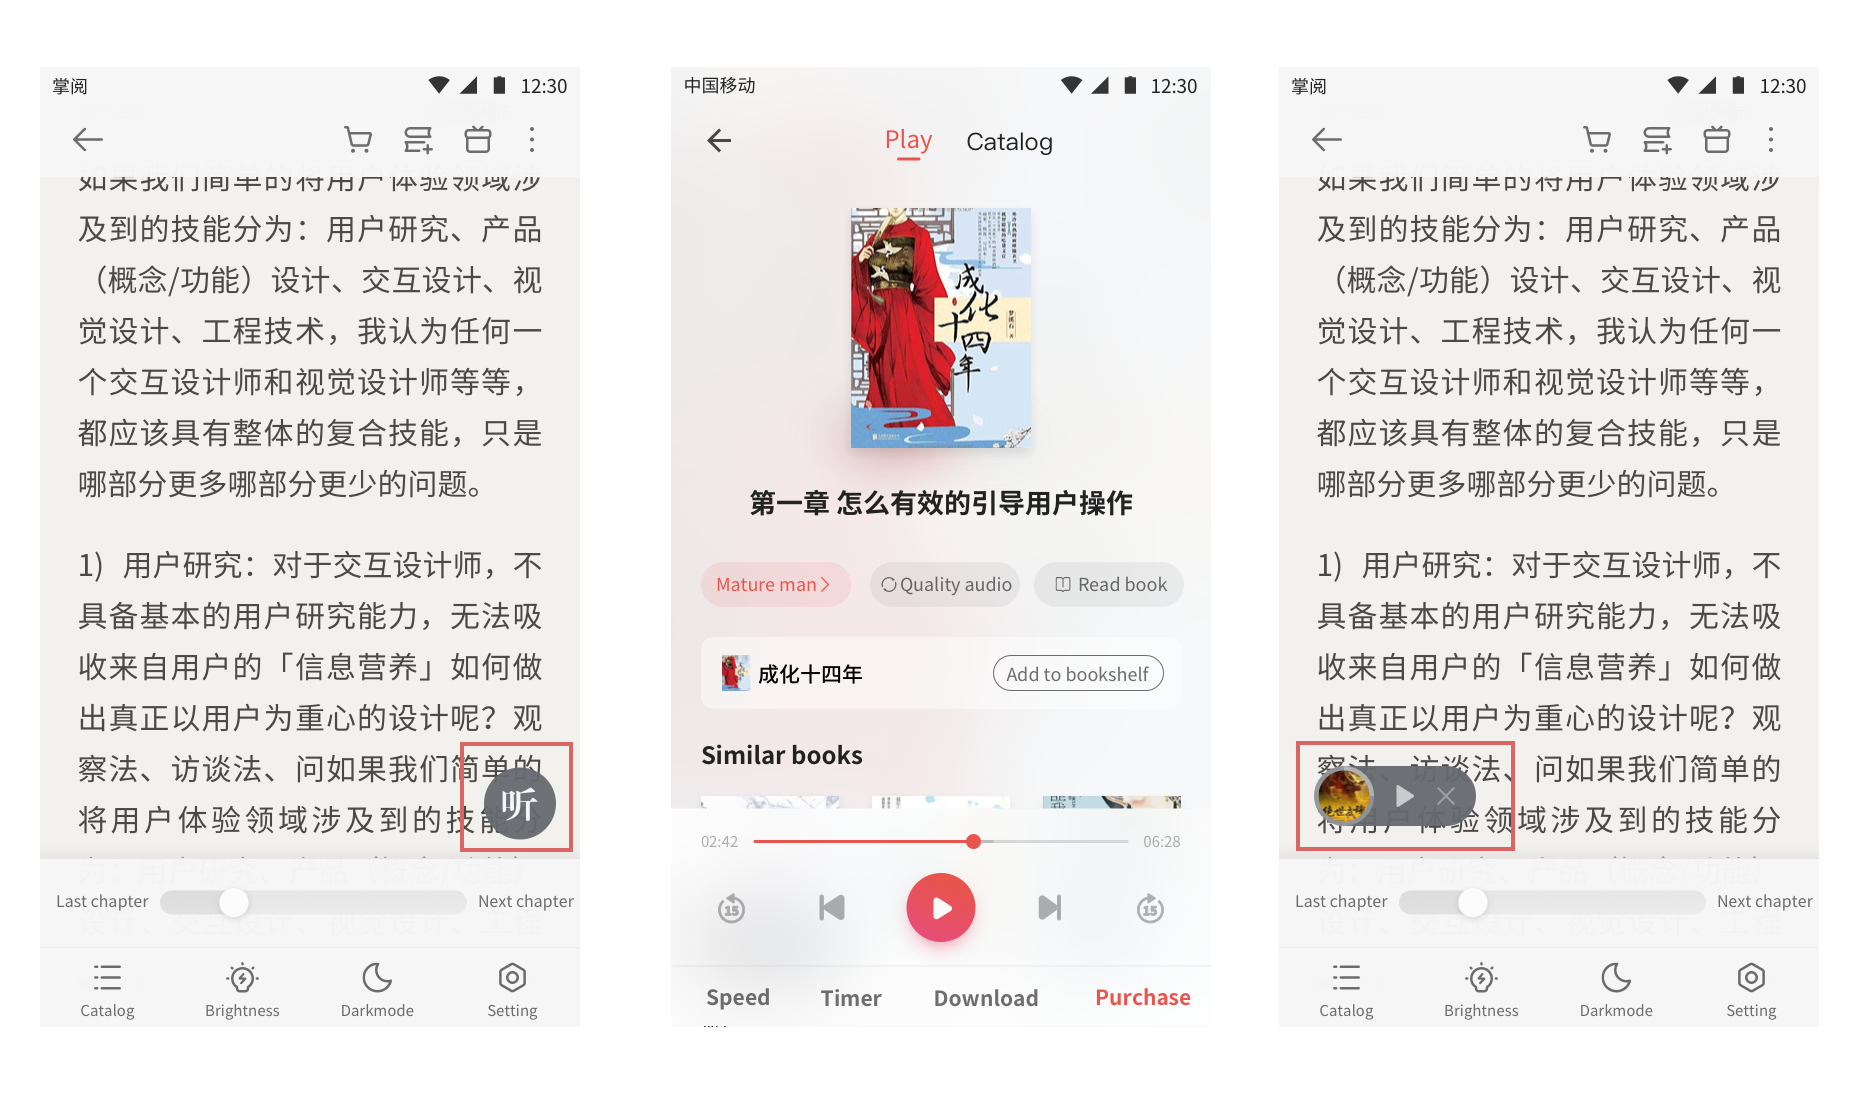
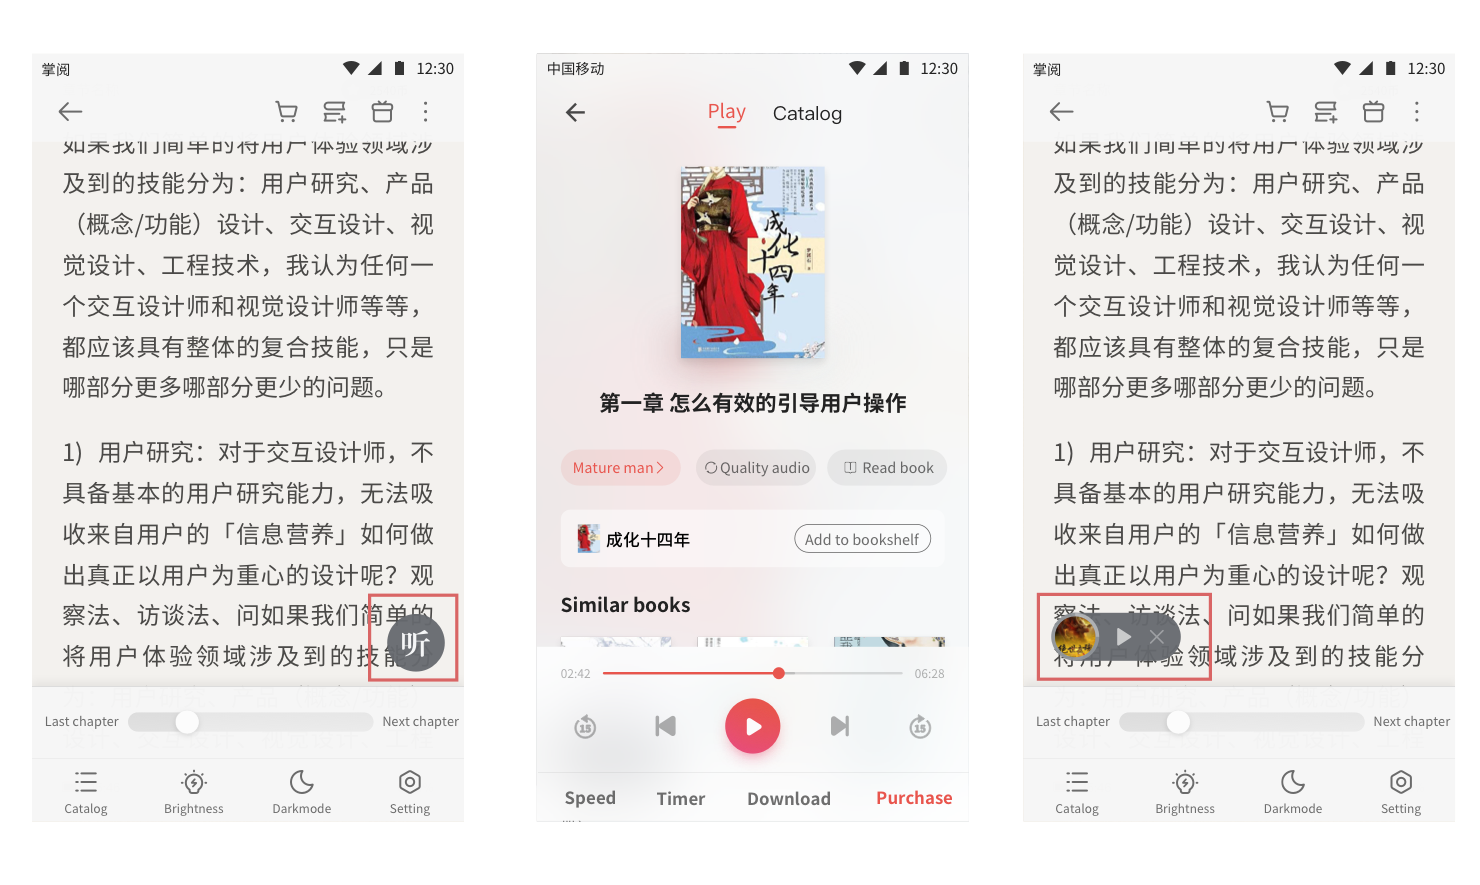
update photos for TTS project + a few small UI tweaks

diff --git a/projects/tts.html b/projects/tts.html
@@ -59,9 +59,9 @@
         <section class="text-center">
             <img src="../assets/img/tts/0.png" class="img-fluid" alt="...">
         </section>
-        <section class="border text-content pt-4">
-            <div class="d-flex justify-content-evenly tts-project-desc flex-wrap">
-                <div class="mt-1 mb-3">
+        <section class="border text-content pt-5">
+            <div class="d-flex justify-content-around tts-project-desc flex-wrap">
+                <div class="mt-1 mb-4">
                     <h2>team</h2>
                     <p>Product designer</p>
                     <p>Product manager</p>
@@ -69,7 +69,7 @@
                     <p>Data analyst</p>
                     <p>Customer specialist</p>
                 </div>
-                <div class="mt-1 mb-3">
+                <div class="mt-1 mb-4">
                     <h2>my role</h2>
                     <p>UX/UI design</p>
                     <p>Product stategy</p>
@@ -77,7 +77,7 @@
                     <p>Design ideation</p>
                     <p>Design QA</p>
                 </div>
-                <div class="mt-1 mb-3">
+                <div class="mt-1 mb-4">
                     <h2>project status</h2>
                     <p>Launched(2021/08)</p>
                     <br>
@@ -87,7 +87,7 @@
             </div>
         </section>
 
-        <section class="text-content border p-4">
+        <section class="text-content border px-5 pt-5 pb-4">
             <h2>problem</h2>
             <p class="text-emphasize">listeners only can have interactions with other page or tasks after they
                 quitting
@@ -100,11 +100,11 @@
             <br>
             <h2>results</h2>
             <ul>
-                <li>
-                    <strong class="md-number me-1">+3%</strong> TTS usage rate
+                <li class="text-light-emphasize">
+                    <strong class="fw-bold">+3%</strong> TTS usage rate
                 </li>
-                <li>
-                    <strong class="md-number me-1">+4 MINS</strong> in averge TTS listening time
+                <li class="text-light-emphasize">
+                    <strong class="fw-bold">+4 MINS</strong> in averge TTS listening time
                 </li>
             </ul>
         </section>
@@ -122,7 +122,7 @@
                 outdated and dark</p>
             <br>
             <div class="quote-with-figure">
-                <img src="" alt="user thumbnail">
+                <img src="../assets/img/tts/photo1.png" width="44px" alt="user thumbnail">
                 <p>"I wanted to add a bookmark for a page in my favorite chapter while using TTS, but I can not do
                     that, I want to listen while reading, so that I can better control my progress" (feedback from our
                     user Xinyu)</p>
@@ -218,7 +218,7 @@
             <p class="text-emphasize">What suprise me from existing data is that...</p>
         </section>
         <div class="text-center">
-            <img src="../assets/img/tts/2.png" class="img-fluid" alt="...">
+            <img src="../assets/img/tts/2.png" width="850px" class="img-fluid" alt="...">
         </div>
 
         <section class="text-content">
@@ -249,7 +249,7 @@
             <br>
             <br>
             <div class="quote-with-figure">
-                <img src="" class="" alt="...">
+                <img src="../assets/img/tts/photo2.png" width="44px" class="" alt="...">
                 <p>"The TTS feature is really good but it can be improved by more flexible" (feedback from our user
                     ******2943)</p>
             </div>
@@ -357,23 +357,23 @@
 
     <div class="container">
         <div class="text-center">
-            <img src="../assets/img/tts/4.png" class="img-fluid" alt="...">
+            <img src="../assets/img/tts/4.png" width="1000px" class="img-fluid" alt="...">
         </div>
         <section class="text-content">
             <p>Review findings about <strong>Solution 1</strong></p>
             <ul class="list-unstyled">
-                <li><img src="https://via.placeholder.com/20x20.png" class="me-2" alt="..."><span>Users may become
+                <li><img src="../assets/img/cross.png" width="22px" class="me-2" alt="..."><span>Users may become
                         confused about two audio entry points as the navigation bar already has entry point
                         for audio books</span>
                 </li>
-                <li><img src="https://via.placeholder.com/20x20.png" class="me-2" alt="..."><span>The navigation items
+                <li><img src="../assets/img/cross.png" width="22px" class="me-2" alt="..."><span>The navigation items
                         might get overlapped in certain pages</span></li>
-                <li><img src="https://via.placeholder.com/20x20.png" class="me-2" alt="..."><span>Both the TTS and
+                <li><img src="../assets/img/cross.png" width="22px" class="me-2" alt="..."><span>Both the TTS and
                         audiobook entry points have animation and users may feel overwhelmed</span>
                 </li>
-                <li><img src="https://via.placeholder.com/20x20.png" class="me-2" alt="..."><span>Users need additional
+                <li><img src="../assets/img/cross.png" width="22px" class="me-2" alt="..."><span>Users need additional
                         steps to control audios</span></li>
-                <li><img src="https://via.placeholder.com/20x20.png" class="me-2" alt="..."><span>Users can perform
+                <li><img src="../assets/img/checkmark.png" width="22px" class="me-2" alt="..."><span>Users can perform
                         other tasks while listening to the audio</span>
                 </li>
             </ul>
@@ -398,25 +398,25 @@
 
     <div class="container">
         <div class="text-center">
-            <img src="../assets/img/tts/5.png" class="img-fluid" alt="...">
+            <img src="../assets/img/tts/5.png" width="1000px" class="img-fluid" alt="...">
         </div>
         <section class="text-content">
             <p>Review findings about <strong>Solution 2</strong>&nbsp;&nbsp;&nbsp;&nbsp;<img
-                    src="https://via.placeholder.com/40x40.png" alt="">
+                    src="../assets/img/checkmark.png" width="40px" alt="">
                 <span>&nbsp;Move Forward</span>
             </p>
             <ul class="list-unstyled">
-                <li><img src="https://via.placeholder.com/20x20.png" class="me-2" alt="..."><span>Users can perform
+                <li><img src="../assets/img/checkmark.png" width="22px" class="me-2" alt="..."><span>Users can perform
                         other tasks while listening to the audio</span>
                 </li>
-                <li><img src="https://via.placeholder.com/20x20.png" class="me-2" alt="..."><span>Users can control the
-                        audio in one place for both audio books and TTS</span></li>
-                <li><img src="https://via.placeholder.com/20x20.png" class="me-2" alt="..."><span>Users can quickly
+                <li><img src="../assets/img/checkmark.png" width="22px" class="me-2" alt="..."><span>Users can control
+                        the audio in one place for both audio books and TTS</span></li>
+                <li><img src="../assets/img/checkmark.png" width="22px" class="me-2" alt="..."><span>Users can quickly
                         play/pause/quit the audio in place</span>
                 </li>
-                <li><img src="https://via.placeholder.com/20x20.png" class="me-2" alt="..."><span>Users seamlessly
+                <li><img src="../assets/img/checkmark.png" width="22px" class="me-2" alt="..."><span>Users seamlessly
                         switch between the control pages of TTS and audio books </span></li>
-                <li><img src="https://via.placeholder.com/20x20.png" class="me-2" alt="..."><span>We need to build a new
+                <li><img src="../assets/img/cross.png" width="22px" class="me-2" alt="..."><span>We need to build a new
                         player page for TTS as it is not compatible with the existing one</span>
                 </li>
             </ul>
@@ -453,9 +453,8 @@
     <br>
     <br>
     <div class="text-center">
-        <img src="../assets/img/tts/6.png" class="img-fluid" alt="...">
+        <img src="../assets/img/tts/6.png" width="750px" class="img-fluid" alt="...">
     </div>
-    <br>
     <div class="container mb-30">
         <section class="text-content">
             <p>Player animation decision: Wave or Infinite rotation？</p>
@@ -464,7 +463,7 @@
         </section>
     </div>
     <div class="text-center">
-        <img src="../assets/img/tts/7.png" class="img-fluid" alt="...">
+        <img src="../assets/img/tts/7.png" width="700px" class="img-fluid" alt="...">
     </div>
     <br>
     <br>
@@ -484,7 +483,7 @@
         </section>
     </div>
     <div class="text-center">
-        <img src="../assets/img/tts/8.png" class="img-fluid" alt="...">
+        <img src="../assets/img/tts/8.png" width="900px" class="img-fluid" alt="...">
     </div>
     <br>
 
@@ -519,7 +518,7 @@
         </section>
     </div>
     <div class="text-center">
-        <img src="../assets/img/tts/11.png" class="img-fluid" alt="...">
+        <img src="../assets/img/tts/11.png" width="900px" class="img-fluid" alt="...">
     </div>
     <br>
     <div class="container mb-30">
@@ -528,7 +527,7 @@
         </section>
     </div>
     <div class="text-center">
-        <img src="../assets/img/tts/12.png" class="img-fluid" alt="...">
+        <img src="../assets/img/tts/12.png" width="900px" class="img-fluid" alt="...">
     </div>
     <br>
 
@@ -548,7 +547,7 @@
             <p>Consider it as an add on value, we roll it over to the next development phase</p>
         </section>
     </div>
-    <div class="text-center"><img src="../assets/img/tts/13.png" class="img-fluid" alt="...">
+    <div class="text-center"><img src="../assets/img/tts/13.png" width="900px" class="img-fluid" alt="...">
     </div>
     <br>
 
@@ -557,7 +556,7 @@
             <p class="text-emphasize">A popup notice users click the cover into player control page</p>
         </section>
     </div>
-    <div class="text-center"><img src="../assets/img/tts/14.png" class="img-fluid" alt="...">
+    <div class="text-center"><img src="../assets/img/tts/14.png" width="450px" class="img-fluid" alt="...">
     </div>
 
     <!-- results -->

diff --git a/assets/css/project.css b/assets/css/project.css
@@ -134,7 +134,7 @@ ul > li, ol > li {
 .quote-with-figure {
     display: flex;
     align-items: center;
-    padding: 26px 16px;
+    padding: 26px;
     box-shadow: 3px 3px 10px 3px rgb(0 0 0 / 10%);
 }
 
